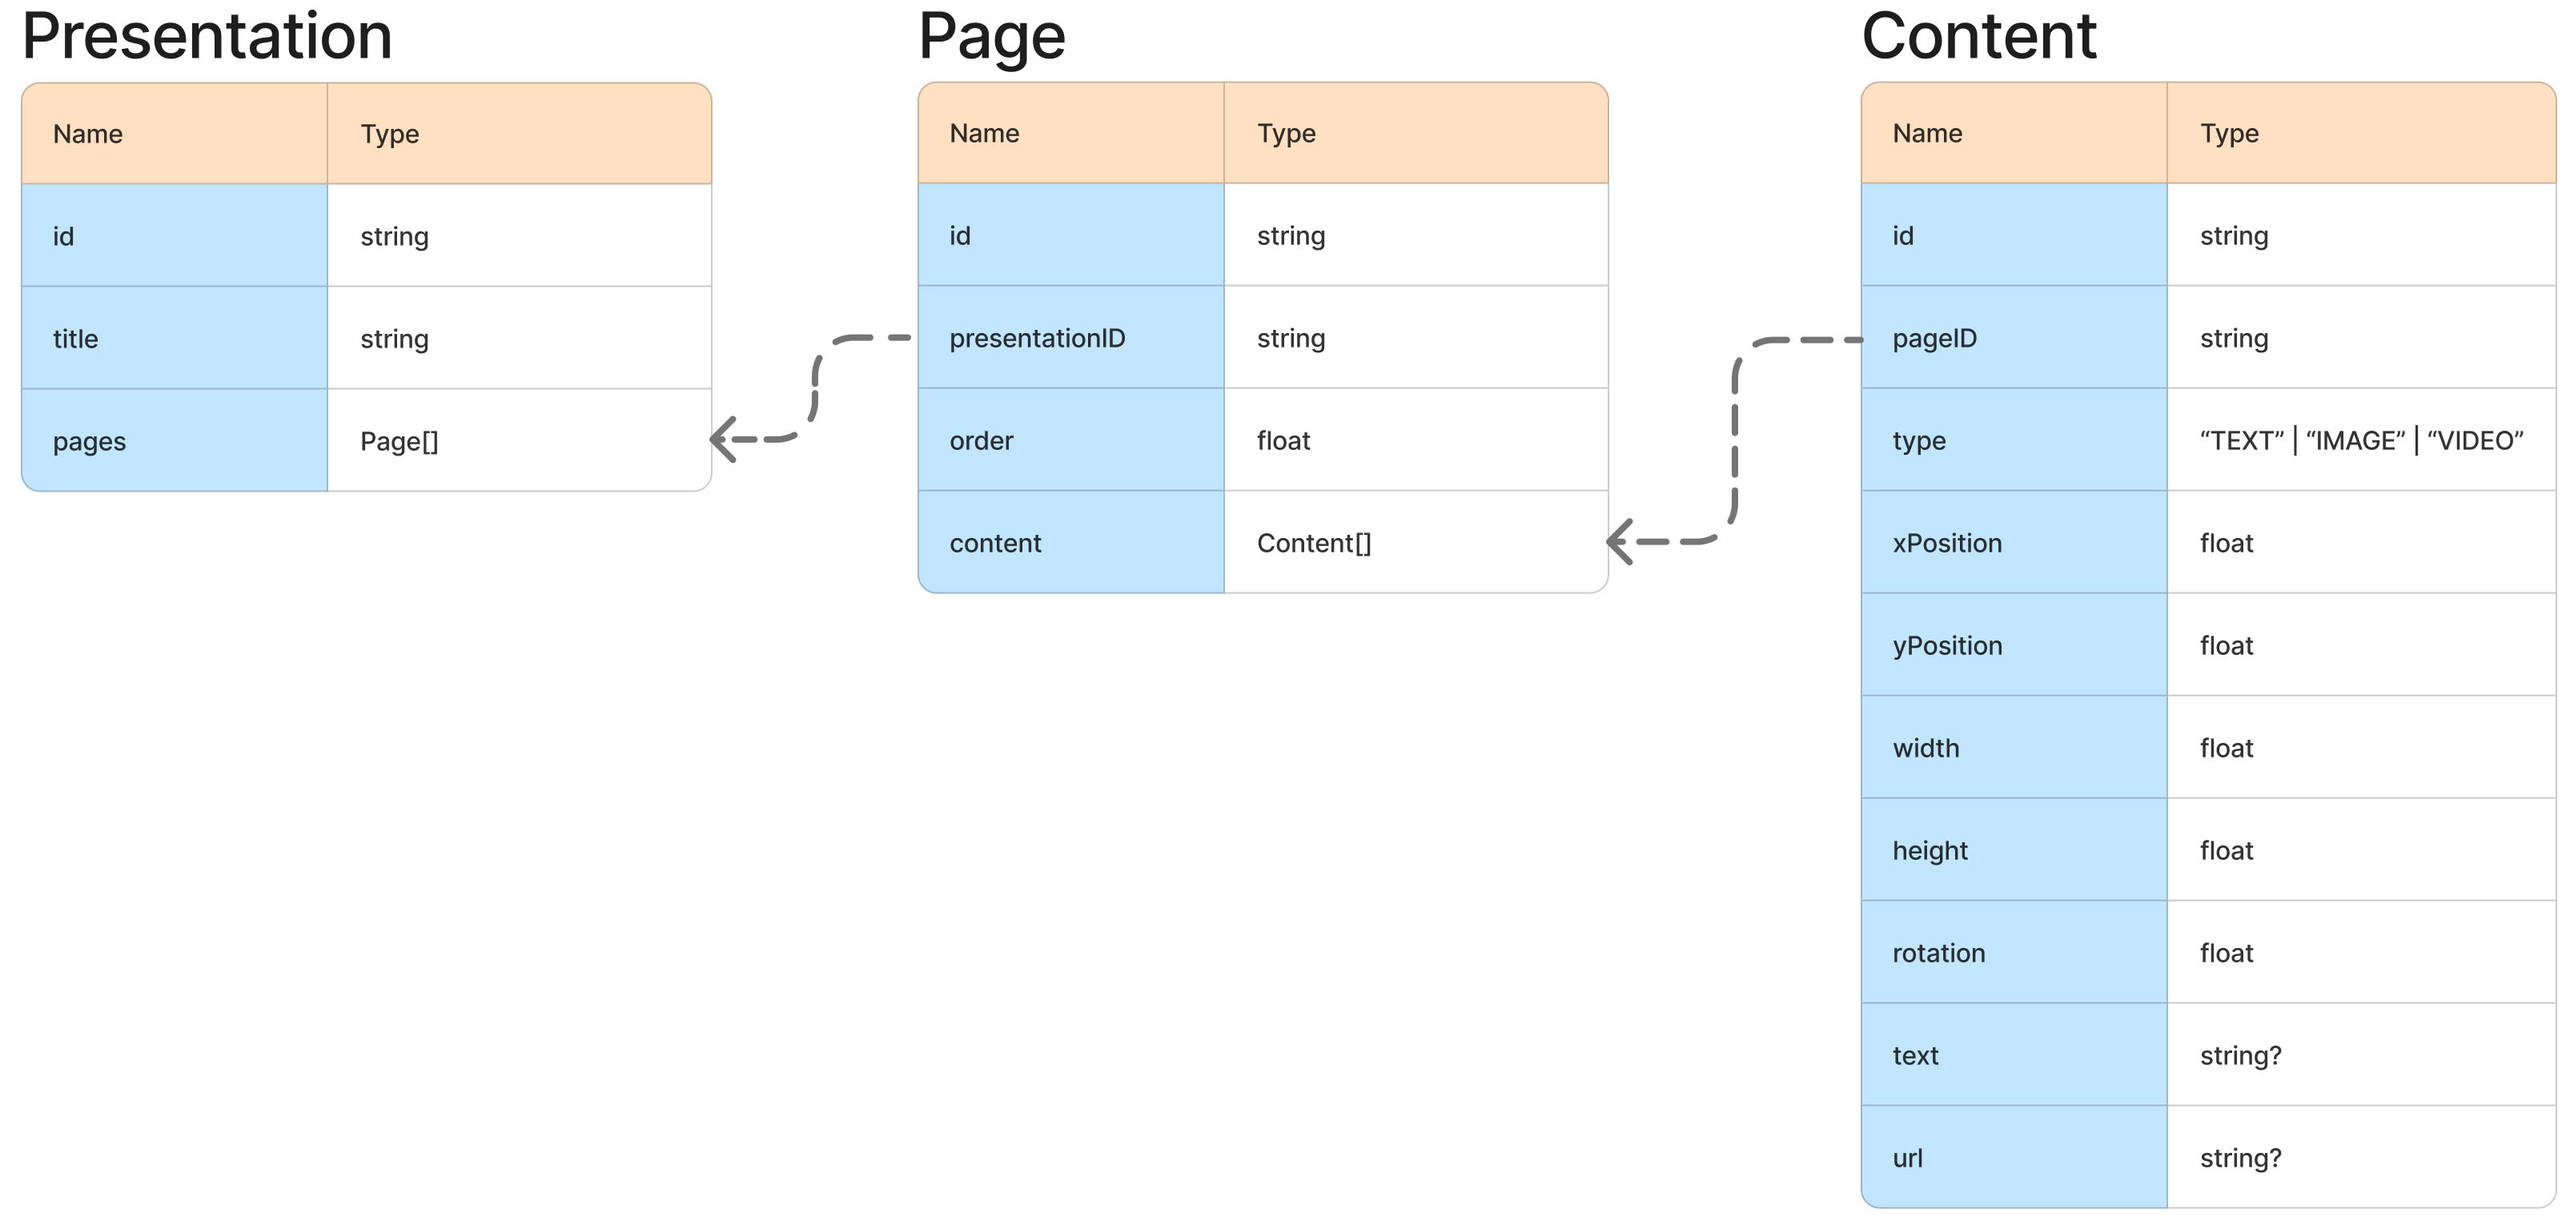
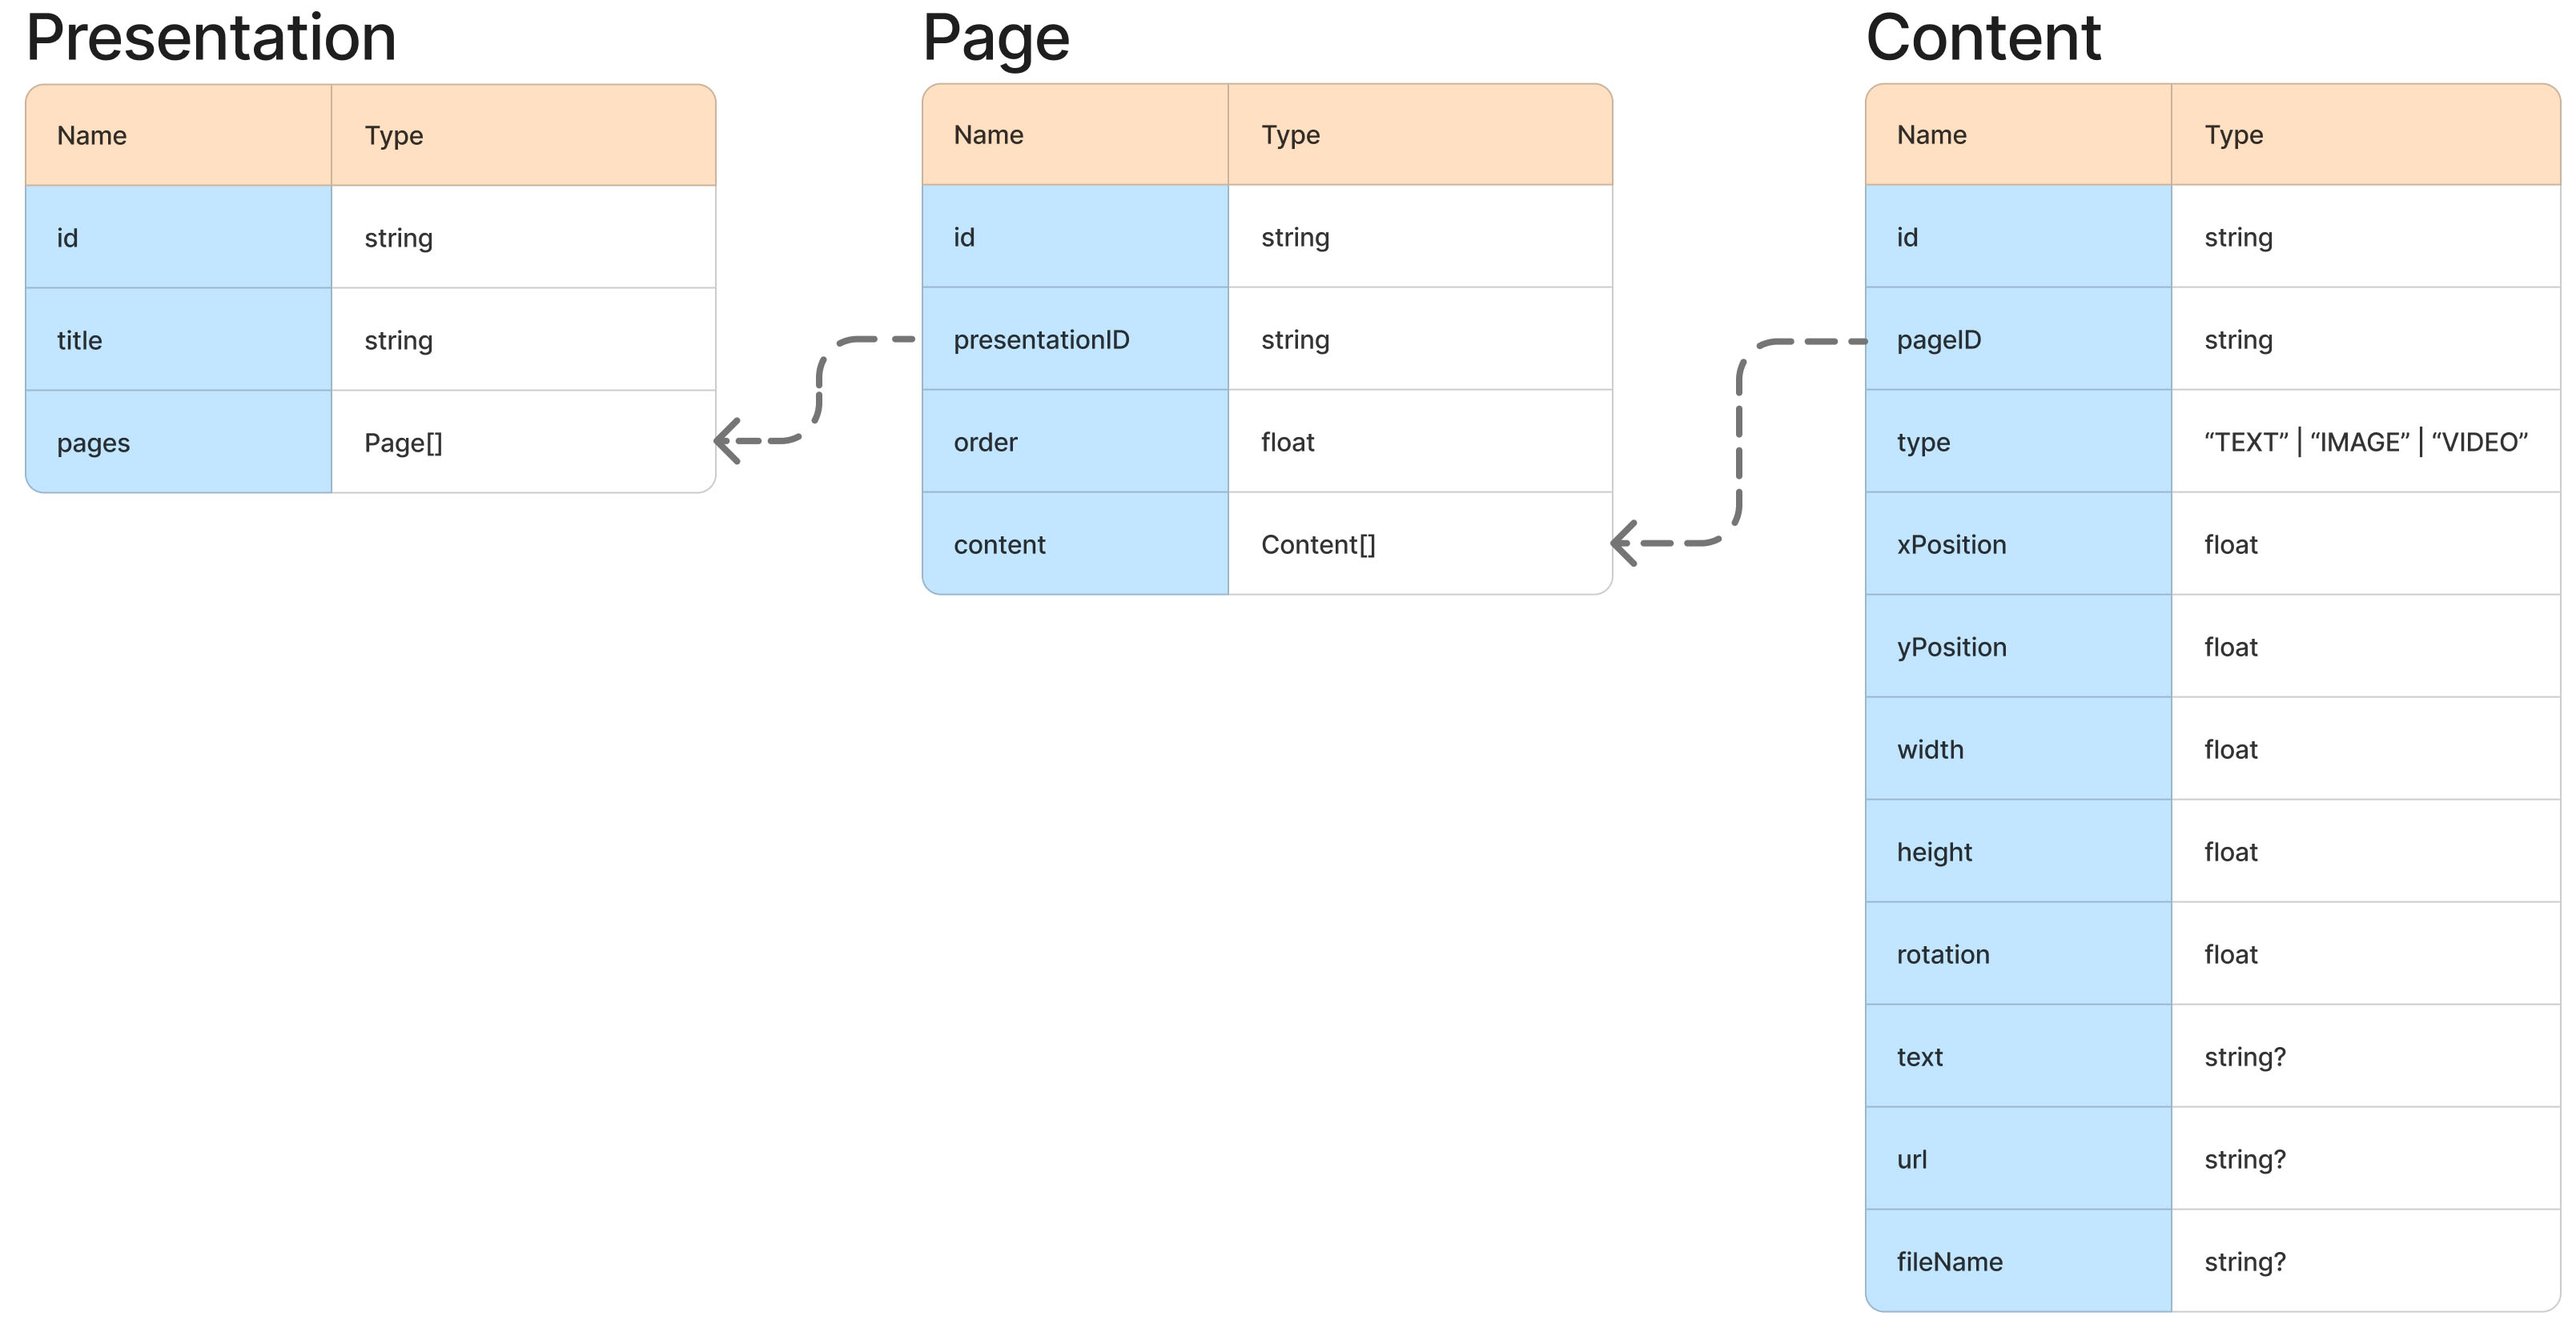
fix: update read me diageam

diff --git a/components/TopBarTools/SavePageButton.tsx b/components/TopBarTools/SavePageButton.tsx
@@ -28,11 +28,7 @@ export default function SavePageButton({ pageID, presentationID, pageIndex }: Pr
      */
     async function handleClick() {
         const deletedContentIDs = getDeletedContentsIDArray();
-        // const deleteURLs = getDeletedContentsUrlArray();
         const deleteFileNames = getDeletedContentsNameArray();
-        console.log("delated file names:", deleteFileNames);
-
-
 
         const updateData: UpdatePageInput = {
             order: pageIndex,
@@ -66,8 +62,6 @@ export default function SavePageButton({ pageID, presentationID, pageIndex }: Pr
                     return;
                 }
             }
-
-
             window.location.reload();
 
         } catch (error) {

diff --git a/components/TopBarTools/DeleteBlock.tsx b/components/TopBarTools/DeleteBlock.tsx
@@ -29,7 +29,6 @@ export default function DeleteBlock() {
             case "TEXT":
                 newArr = getTextArr.filter((id) => id !== item.id);
                 setTextArr(newArr);
-
             case "IMAGE":
                 newArr = getImageArr.filter((id) => id !== item.id);
                 setImageArr(newArr);
@@ -41,11 +40,7 @@ export default function DeleteBlock() {
         }
 
         //remove from global contents map and add to deleted set
-
-
         deletedContentSet.add(item);
-        console.log("deletedContentSet:", deletedContentSet.size);
-
         const deleted = contentsMap.delete(currentSelectedID!);
         if (deleted) {
             //clear selection

diff --git a/README.md b/README.md
@@ -141,6 +141,7 @@ public/             # Static assets
 
 /api/upload
     POST → upload objects to R2 Bucket
+    DELETE → delete objects from R2 Bucket
 
 ```
 
@@ -148,7 +149,8 @@ public/             # Static assets
 
 This project is built using the Next.js App Router. The app is divided into two main parts:
 
-1.The presentation list
+1. The presentation list
+
 2. The single-presentation editor
 
 All presentations, pages, and content items are stored in the database. Images and videos are uploaded to Cloudflare R2.  
@@ -163,7 +165,7 @@ Design considerations:
 
 - Pages use a float “order” value (e.g., 1.1, 1.113, 1.23).This allows inserting pages without reordering the entire sequence. The frontend sorts pages and derives indices.
 - Content positions and sizes are stored as floats, matching Konva’s coordinate system.
-- Text content is stored directly in the database; image and video content stores the corresponding R2 URLs.
+- Text content is stored directly in the database; image and video content stores the corresponding R2 URLs and their file name.
 
 ### Backend
 
@@ -173,12 +175,13 @@ In addition to REST API endpoints, there are a few server-side helper functions 
 
 - addNewPage
 - fetchAllPages
-- fetchAllPresentations
 
 ### Frontend
 
 The core of the presentation editor is a 2D canvas powered by Konva, which provides built-in dragging, rotation, and resizing.
 
+FrontEnd Storage:
+![Global State and Storage Map](./public/doc/GlobalState.jpg)
 State management design:
 
 - pageMap stores all pages and their associated content IDs
@@ -188,15 +191,26 @@ State management design:
 - Global state tracks:
   - the current page
   - the content IDs shown on the canvas
+  - the current selected content
 
 When loading a page, the app fetches its contents and add them to the maps.In the canvas component, content IDs are organized into arrays by type then send into global state.
 
 Each content modification is stored locally and the content map.
 When the user saves the page, all changes are batch-uploaded to the database.
 
+Add Content Process:
+![Add Content Process Diagram](./public/doc/AddContent.jpg)
+
+Delete Content Process:
+![Add Content Process Diagram](./public/doc/DeleteContent.jpg)
+
+Save A Page Process:
+![Save A Page Process Diagram](./public/doc/SavePage.jpg)
+
 ### Limitation and Future Improvement
 
-- Delete and copy/paste are not fully implemented.(Requires clearer UI and global selection state.)
 - Undo/Redo requires a history stack for content operations.
+- Frontend Page Map haven't been used. it will help the save page process, so after saving, not reload need. Saving also can be done as whole presentation in the background
+- Image and Video upload can do R2 upload background. Image/Video can load local file at the same time
 - Video handling could be improved.In many cases, linking to YouTube might be more efficient depending on network conditions.
 - Add a configuration model for content styles (text style, image settings, etc.)and another style/config models for pages and presentations as well
